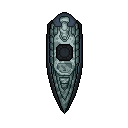
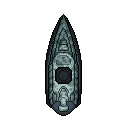
Players can now move locally. Still data not replicated.

Changed region(s): [[0.3438, 0.0938, 0.6562, 0.9062]]

diff --git a/Source/Private/Map/Lake.cpp b/Source/Private/Map/Lake.cpp
@@ -4,6 +4,8 @@
 #include "Managers/GameManager.h"
 #include "Player/Boat.h"
 #include "Managers/TextureManager.h"
+#include "Managers/AppManager.h"
+#include "Managers/Networking/NetworkingManager.h"
 
 Map_Lake::Map_Lake()
 {
@@ -28,24 +30,35 @@ Map_Lake::~Map_Lake()
 
 void Map_Lake::InitMap(Window& window, int playersQuantity)
 {
+	bool playerLocallyControlled = false;
+	const unsigned short playerID = AppManager::GetAppManager()->GetNetworkManager()->GetPlayerID();
+	
 	for (int i = 0; i < playersQuantity; i++)
 	{
+
+		if (playerID == i)
+			playerLocallyControlled = true;
+		else
+			playerLocallyControlled = false;
+		
+		Boat* newBoat; 
+
 		if(i == 0)
 		{
-			Boat player(window.GetWindow(), false, PlayerInitialInfo(i, sf::Vector2f(WINDOW_SIZE.x * 0.15f, WINDOW_SIZE.y * 0.5f), -90.f, boat1Path));
-			AddPlayer(std::move(player));
+			newBoat = new Boat(window.GetWindow(), playerLocallyControlled, PlayerInitialInfo(i, sf::Vector2f(WINDOW_SIZE.x * 0.15f, WINDOW_SIZE.y * 0.5f), 90.f, boat1Path));
+			AddPlayer(*newBoat);
 		}
 		else if (i == 1)
 		{
-			Boat player(window.GetWindow(), false, PlayerInitialInfo(i, sf::Vector2f(WINDOW_SIZE.x * 0.85f, WINDOW_SIZE.y * 0.5f), 90.f, boat2Path));
-			AddPlayer(std::move(player));
+			newBoat = new Boat(window.GetWindow(), playerLocallyControlled, PlayerInitialInfo(i, sf::Vector2f(WINDOW_SIZE.x * 0.85f, WINDOW_SIZE.y * 0.5f), -90.f, boat2Path));
+			AddPlayer(*newBoat);
 		}
 	}
 }
 
 void Map_Lake::UpdateMap()
 {
-
+	Map::UpdateMap();
 }
 
 void Map_Lake::DrawWap(Window& window)
@@ -58,7 +71,7 @@ void Map_Lake::DrawWap(Window& window)
 
 	for (auto& boat : players)
 	{
-		boat.Draw(sfmlWindow);
+		boat->Draw(sfmlWindow);
 	}
 
 	window.Display();

diff --git a/Source/Private/Player/Boat.cpp b/Source/Private/Player/Boat.cpp
@@ -2,14 +2,33 @@
 #include <iostream>
 #include "ApplicationHelper.h"
 
-Boat::Boat(sf::Window& window, bool PlayerPlayable, PlayerInitialInfo playerInitialInfo) : Player(window, PlayerPlayable, playerInitialInfo)
+Boat::Boat(sf::Window& window, bool PlayerPlayable, PlayerInitialInfo playerInitialInfo) : Player(window, PlayerPlayable, playerInitialInfo), angleBoatSpeedEachSecond(360.f)
 {
+	if (PlayerPlayable)
+	{
+		action_W.SetKey(sf::Keyboard::Key::W);
+		action_RotateLeft.SetKey(sf::Keyboard::Key::Q);
+		action_RotateRight.SetKey(sf::Keyboard::Key::E);
 
+		action_W.OnKeyOnGoing = BindAction(&Boat::AccelerateBoat, this);
+		action_RotateLeft.OnKeyOnGoing = BindAction(&Boat::RotateBoatLeft, this);
+		action_RotateRight.OnKeyOnGoing = BindAction(&Boat::RotateBoatRight, this);
+	}
 }
 
 void Boat::HandlePlayerInput()
 {
 	Player::HandlePlayerInput();
+
+	CheckKeyPressed(action_W);
+	CheckKeyPressed(action_RotateLeft);
+	CheckKeyPressed(action_RotateRight);
+}
+
+void Boat::Update()
+{
+	Player::Update();
+
 }
 
 void Boat::AccelerateBoat()
@@ -37,6 +56,7 @@ void Boat::DecelerateBoat()
 
 void Boat::RotateBoatLeft()
 {
+	std::cout << "Rotating boat left\n";
 	float tickRotation = -angleBoatSpeedEachSecond * ApplicationHelper::GetDeltaTime();
 	float previousRotation = GetRotation();
 	float newAngleRotation = previousRotation + tickRotation;
@@ -45,6 +65,7 @@ void Boat::RotateBoatLeft()
 
 void Boat::RotateBoatRight()
 {
+	std::cout << "Rotating boat right\n";
 	float tickRotation = angleBoatSpeedEachSecond * ApplicationHelper::GetDeltaTime();
 	float previousRotation = GetRotation();
 	float newAngleRotation = previousRotation + tickRotation;

diff --git a/Source/Private/Managers/Networking/NetworkingManagerServer.cpp b/Source/Private/Managers/Networking/NetworkingManagerServer.cpp
@@ -98,27 +98,34 @@ void NetworkingManagerServer::WaitForClientsToConnect()
 
 void NetworkingManagerServer::StartGameServerAndClients()
 {
+	//
+	int internalPlayerID = 0; 
 	for (auto& player : players)
 	{
-		//Send the start the game flag to clients
-		sf::Packet packet_StartTheGame;
-		Json::Value root;
-		root[startGameKey] = true;
-		root[numPlayers] = numPlayersToStartTheGame;
+		//Ommit sever send data to itself. 
+		if (internalPlayerID != 0)
+		{
+			//Send the start the game flag to clients
+			sf::Packet packet_StartTheGame;
+			Json::Value root;
+			root[startGameKey] = true;
+			root[numPlayers] = numPlayersToStartTheGame;
+			root[key_PlayerID] = internalPlayerID;
+			Json::StreamWriterBuilder writerBuilder;
+			std::string msgToSend = Json::writeString(writerBuilder, root);
+			packet_StartTheGame << msgToSend;
 
-		//root[]
-
-		Json::StreamWriterBuilder writerBuilder;
-		std::string msgToSend = Json::writeString(writerBuilder, root);
-		packet_StartTheGame << msgToSend;
-
-		sf::Socket::Status status = udpSocket.send(packet_StartTheGame, player.second.ipAddress, player.second.port);
+			sf::Socket::Status status = udpSocket.send(packet_StartTheGame, player.second.ipAddress, player.second.port);
+		}
+		internalPlayerID++;
 	}
+
+	//Player Server initializes its own game
 	serverManagementData = EServerManagementData::EPlayMatch;
 	GameManager::GetGameManager()->InitGameWindow();
 	GameManager* gm = GameManager::GetGameManager();
 	
-	GameManager::GetGameManager()->InitGameMap(gm->GetMap(gm->LakeMap), players.size());
+	gm->InitGameMap(gm->GetMap(gm->LakeMap), players.size());
 
 }
 

diff --git a/Source/Public/Managers/Networking/NetworkingManager.h b/Source/Public/Managers/Networking/NetworkingManager.h
@@ -10,10 +10,11 @@
 #include "Managers/GameManager.h"
 #include "Managers/AppManager.h"
 
-#define LAN 1
+#define LAN 0
 
 class NetworkingManager
 {
+	friend class AppManager; 
 public:
 
 	virtual ~NetworkingManager() = default;
@@ -25,18 +26,25 @@ public:
 
 	NetworkingManager(const NetworkingManager&) = delete;
 	NetworkingManager& operator=(const NetworkingManager&) = delete;
-	const static unsigned short GetGamePort() { return gamePort; };
+	
+	//GETTERS
+	inline const static unsigned short GetGamePort() { return gamePort; }; 
+	inline const unsigned short GetPlayerID() { return playerID; };
+
 protected:
 	NetworkingManager() = default;
 
 	sf::UdpSocket udpSocket; 
 	std::vector<sf::Packet> packetsToSendThisFrame;
+	//The plyer id associated with the application player
+	unsigned short playerID; 
 	
 	//Communication keys
 	const static std::string accessKey;
 	const static std::string connectionWithServer; 
 	const static std::string startGameKey;
 	const static std::string numPlayers;
+	const static std::string key_PlayerID;
 	
 	static unsigned short gamePort;
 }; 

diff --git a/Source/Public/Player/Player.h b/Source/Public/Player/Player.h
@@ -74,7 +74,7 @@ public:
 	float GetRotation();
 
 	//Function that gets called each tick
-	void Update();
+	virtual void Update();
 
 	//Sets the position in the screen of the player
 	void SetPosition(sf::Vector2f newPosition);
@@ -86,6 +86,11 @@ protected:
 	//Check if a key is pressed
 	void CheckKeyPressed(InputAction& inputAction);
 
+	template<typename FncAdd, typename FncObject>
+	auto BindAction(FncAdd FunctionAddress, FncObject ObjectOwningFunction)
+	{
+		return std::bind(FunctionAddress, ObjectOwningFunction);
+	}
 private: 
 
 	
@@ -95,11 +100,7 @@ private:
 	//Json root value. We should add here all the information we want to send by network
 	Json::Value root; 
 
-	template<typename FncAdd, typename FncObject>
-	auto BindAction(FncAdd FunctionAddress, FncObject ObjectOwningFunction)
-	{
-		return std::bind(FunctionAddress, ObjectOwningFunction);
-	}
+	
 	
 	//Check if this player should handle input by this process
 	bool bIsLocallyControlled;

diff --git a/Source/Private/Managers/AppManager.cpp b/Source/Private/Managers/AppManager.cpp
@@ -6,6 +6,7 @@
 #include "Map/Map.h"
 #include "Window.h"
 #include "Managers/GameManager.h"
+#include "ApplicationHelper.h"
 
 AppManager* AppManager::instance = nullptr;
 
@@ -82,13 +83,19 @@ void AppManager::InitGame()
 	}
 
 	if (NetworkManager)
+	{
+		gameManager->networkManager = NetworkManager;
 		NetworkManager->OnInit();
+	}
 }
 
 void AppManager::Update()
 {
 	while (!bCloseGame)
 	{
+		//Shoulw be on app manager and not on applcation helper
+		ApplicationHelper::SetDeltaTime();
+
 		NetworkManager->UpdateNetworkData();
 
 		gameManager->Update();

diff --git a/Source/Public/Player/Boat.h b/Source/Public/Player/Boat.h
@@ -11,6 +11,8 @@ public:
 
 	virtual void HandlePlayerInput();
 
+	//Function that gets called each tick
+	virtual void Update() override;
 private:
 	//Boat mechanics
 	void AccelerateBoat();
@@ -27,6 +29,7 @@ private:
 	float angleBoatSpeedEachSecond;
 
 	//Input Actions
+	//Wasted memory on objects that are not controlled by the player. With the creation of a player controller that just gets spawned for the application owner could solve this
 	InputAction action_Space;
 	InputAction action_P;
 	InputAction action_W;

diff --git a/Source/Private/Player/Player.cpp b/Source/Private/Player/Player.cpp
@@ -109,6 +109,7 @@ float Player::GetRotation()
 
 void Player::Update()
 {
+	HandlePlayerInput();
 }
 
 void Player::SetPosition(sf::Vector2f newPosition)
@@ -123,7 +124,7 @@ void Player::SetPosition(sf::Vector2f newPosition)
 
 void Player::SetRotation(float angle)
 {
-	forwardVector = ApplicationHelper::rotateVector(sf::Vector2f(0.0f, 1.0f), angle);
+	forwardVector = ApplicationHelper::rotateVector(sf::Vector2f(0.0f, -1.0f), angle);
 	playerSprite.setRotation(angle);
 	root["playerAngle"] = angle;
 }

diff --git a/Source/Private/Managers/GameManager.cpp b/Source/Private/Managers/GameManager.cpp
@@ -30,6 +30,7 @@ void GameManager::InitGameMap(Map* map, unsigned short playerQuantity)
 {
 	currentGameMap = map;
 	currentGameMap->InitMap(*window, playerQuantity);
+
 }
 
 void GameManager::Update()
@@ -46,7 +47,10 @@ void GameManager::Update()
 
 	//Draw the game
 	if (currentGameMap && window)
+	{
+		currentGameMap->UpdateMap();
 		currentGameMap->DrawWap(*window);
+	}
 }
 
 void GameManager::AddGameMap(const std::string &mapName, Map* map)

diff --git a/Source/Public/Map/Map.h b/Source/Public/Map/Map.h
@@ -10,13 +10,13 @@ class Map
 public:
 	Map() = default;
 	virtual void InitMap(Window& window, int playersQuantity) = 0;
-	virtual void UpdateMap() = 0; 
+	virtual void UpdateMap(); 
 	virtual void DrawWap(Window& window) = 0;
 	virtual void EndMap() = 0;
 
 protected: 
-	void AddPlayer(Player player);
-	std::vector<Player> players; 
+	void AddPlayer(Player& player);
+	std::vector<Player*> players; 
 
 private:
 

diff --git a/Source/Public/Managers/AppManager.h b/Source/Public/Managers/AppManager.h
@@ -23,6 +23,7 @@ enum class EPlayerType
 //Class that handles all the Application
 class AppManager
 {
+	friend class GameManager; 
 public: 
 	static AppManager* GetAppManager()
 	{
@@ -36,8 +37,8 @@ public:
 	void InitGame();
 	void Update();
 	void CloseGame();
-	
 	~AppManager();
+	inline NetworkingManager* GetNetworkManager() { return NetworkManager; };
 
 private: 
 	AppManager();

diff --git a/Source/Public/Managers/GameManager.h b/Source/Public/Managers/GameManager.h
@@ -11,6 +11,8 @@ class Window;
 
 class GameManager
 {
+	friend class NetworkingManager;
+	friend class AppManager; 
 public:
 	static GameManager* GetGameManager()
 	{
@@ -42,6 +44,9 @@ private:
 
 	//Window of the game
 	Window* window;
+
+	//Not owning pointer to the Network Manager
+	NetworkingManager* networkManager; 
 
 	static GameManager* instance; 
 };
